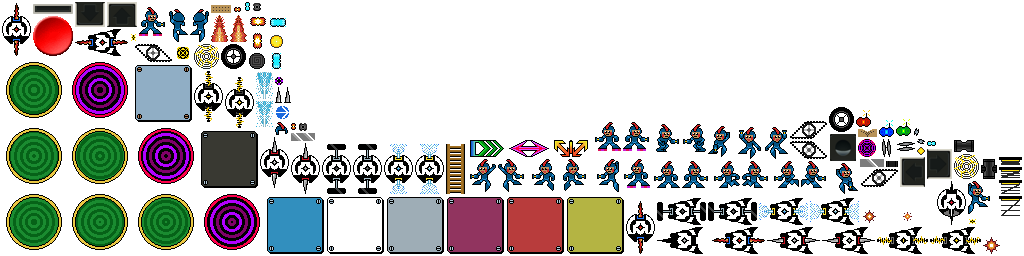
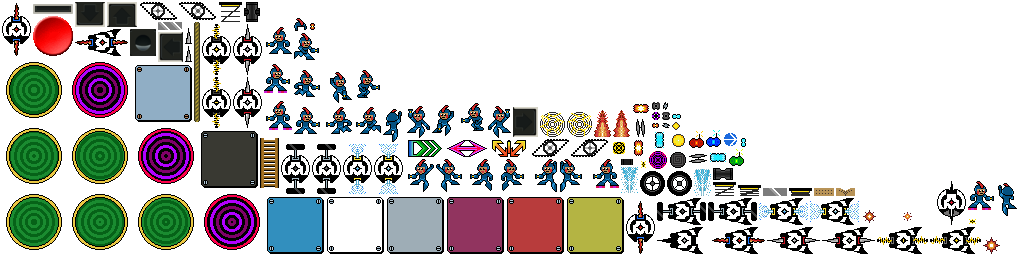
updated rope sprite and added and implemented rope class

Changed region(s): [[0.125, 0.0, 1.0, 0.8438]]

diff --git a/core/src/com/udacity/gamedev/gigagal/util/Assets.java b/core/src/com/udacity/gamedev/gigagal/util/Assets.java
@@ -23,6 +23,7 @@ public final class Assets implements Disposable, AssetErrorListener {
     private CannonAssets cannonAssets;
     private PillarAssets pillarAssets;
     private LadderAssets ladderAssets;
+    private RopeAssets ropeAssets;
     private SlickAssets slickAssets;
     private TreadmillAssets treadmillAssets;
     private SpringAssets springAssets;
@@ -72,6 +73,7 @@ public final class Assets implements Disposable, AssetErrorListener {
         cannonAssets = new CannonAssets(atlas);
         pillarAssets = new PillarAssets(atlas);
         ladderAssets = new LadderAssets(atlas);
+        ropeAssets = new RopeAssets(atlas);
         slickAssets = new SlickAssets(atlas);
         treadmillAssets = new TreadmillAssets(atlas);
         springAssets = new SpringAssets(atlas);
@@ -273,6 +275,15 @@ public final class Assets implements Disposable, AssetErrorListener {
             AtlasRegion region = atlas.findRegion(Constants.LADDER_SPRITE);
             int edge = Constants.LADDER_EDGE;
             ladderNinePatch = new NinePatch(region, edge, edge, edge, edge);
+        }
+    }
+
+    public class RopeAssets {
+
+        public final AtlasRegion rope;
+
+        public RopeAssets(TextureAtlas atlas) {
+            rope = atlas.findRegion(Constants.ROPE_SPRITE);
         }
     }
 
@@ -707,6 +718,7 @@ public final class Assets implements Disposable, AssetErrorListener {
     public final CannonAssets getCannonAssets() { return cannonAssets; }
     public final PillarAssets getPillarAssets() { return pillarAssets; }
     public final LadderAssets getLadderAssets() { return ladderAssets; }
+    public final RopeAssets getRopeAssets() { return ropeAssets; }
     public final SlickAssets getSlickAssets() { return slickAssets; }
     public final TreadmillAssets getTreadmillAssets() { return treadmillAssets; }
     public final SpringAssets getSpringAssets() { return springAssets; }

diff --git a/core/src/com/udacity/gamedev/gigagal/entities/Rope.java b/core/src/com/udacity/gamedev/gigagal/entities/Rope.java
@@ -1,0 +1,34 @@
+package com.udacity.gamedev.gigagal.entities;
+
+import com.badlogic.gdx.graphics.g2d.SpriteBatch;
+import com.badlogic.gdx.graphics.g2d.TextureRegion;
+import com.badlogic.gdx.math.Vector2;
+import com.udacity.gamedev.gigagal.util.Assets;
+import com.udacity.gamedev.gigagal.util.Constants;
+import com.udacity.gamedev.gigagal.util.Enums;
+import com.udacity.gamedev.gigagal.util.Utils;
+
+public class Rope implements Ground, Climbable {
+
+    // fields
+    private Vector2 position;
+
+    // ctor
+    public Rope(Vector2 position) {
+        this.position = position;
+    }
+
+    public void render(SpriteBatch batch) {
+        final TextureRegion region = Assets.getInstance().getRopeAssets().rope;
+        Utils.drawTextureRegion(batch, region, position, Constants.ROPE_CENTER);
+    }
+
+    public final Vector2 getPosition() { return position; }
+    public final float getHeight() { return Constants.ROPE_CENTER.y * 2; }
+    public final float getWidth() { return Constants.ROPE_CENTER.x * 2; }
+    public final float getLeft() { return position.x - Constants.ROPE_CENTER.x; }
+    public final float getRight() { return position.x + Constants.ROPE_CENTER.x; }
+    public final float getTop() { return position.y + Constants.ROPE_CENTER.y; }
+    public final float getBottom() { return position.y - Constants.ROPE_CENTER.y; }
+    public final Class getSubclass() { return this.getClass(); }
+}

diff --git a/core/src/com/udacity/gamedev/gigagal/util/LevelLoader.java b/core/src/com/udacity/gamedev/gigagal/util/LevelLoader.java
@@ -16,6 +16,7 @@ import com.udacity.gamedev.gigagal.entities.GushingSwoopa;
 import com.udacity.gamedev.gigagal.entities.GushingZoomba;
 import com.udacity.gamedev.gigagal.entities.Ladder;
 import com.udacity.gamedev.gigagal.entities.Pillar;
+import com.udacity.gamedev.gigagal.entities.Rope;
 import com.udacity.gamedev.gigagal.entities.SharpSwoopa;
 import com.udacity.gamedev.gigagal.entities.SharpZoomba;
 import com.udacity.gamedev.gigagal.entities.Sink;
@@ -149,6 +150,10 @@ public final class LevelLoader {
                 final Vector2 pillarPosition = imagePosition.add(Constants.PILLAR_CENTER);
                 Gdx.app.log(TAG, "Loaded the pillar at " + pillarPosition);
                 level.getGrounds().add(new Pillar(pillarPosition));
+            } else if (item.get(Constants.LEVEL_IMAGENAME_KEY).equals(Constants.ROPE_SPRITE)) {
+                final Vector2 ropePosition = imagePosition.add(Constants.ROPE_CENTER);
+                Gdx.app.log(TAG, "Loaded the rope at " + ropePosition);
+                level.getGrounds().add(new Rope(ropePosition));
             } else if (item.get(Constants.LEVEL_IMAGENAME_KEY).equals(Constants.TREADMILL_1_RIGHT)) {
                 final Vector2 treadmillPosition = imagePosition.add(Constants.TREADMILL_CENTER);
                 Gdx.app.log(TAG, "Loaded the treadmillRight at " + treadmillPosition);

diff --git a/core/src/com/udacity/gamedev/gigagal/entities/Ladder.java b/core/src/com/udacity/gamedev/gigagal/entities/Ladder.java
@@ -1,12 +1,8 @@
 package com.udacity.gamedev.gigagal.entities;
 
-import com.badlogic.gdx.graphics.g2d.NinePatch;
 import com.badlogic.gdx.graphics.g2d.SpriteBatch;
-import com.badlogic.gdx.graphics.g2d.TextureRegion;
 import com.badlogic.gdx.math.Vector2;
 import com.udacity.gamedev.gigagal.util.Assets;
-import com.udacity.gamedev.gigagal.util.Constants;
-import com.udacity.gamedev.gigagal.util.Utils;
 
 public class Ladder implements Ground, Climbable {
 

diff --git a/core/src/com/udacity/gamedev/gigagal/util/Constants.java b/core/src/com/udacity/gamedev/gigagal/util/Constants.java
@@ -102,6 +102,10 @@ public final class Constants {
     public static final Vector2 LADDER_CENTER = new Vector2(8.5f, 25);
     public static final String LADDER_SPRITE = "ladder";
     public static final int LADDER_EDGE = 8;
+    
+    // Rope    
+    public static final Vector2 ROPE_CENTER = new Vector2(3, 50);
+    public static final String ROPE_SPRITE = "rope";
 
     // Slick
     public static final Vector2 SLICK_CENTER = new Vector2(12, 4);
